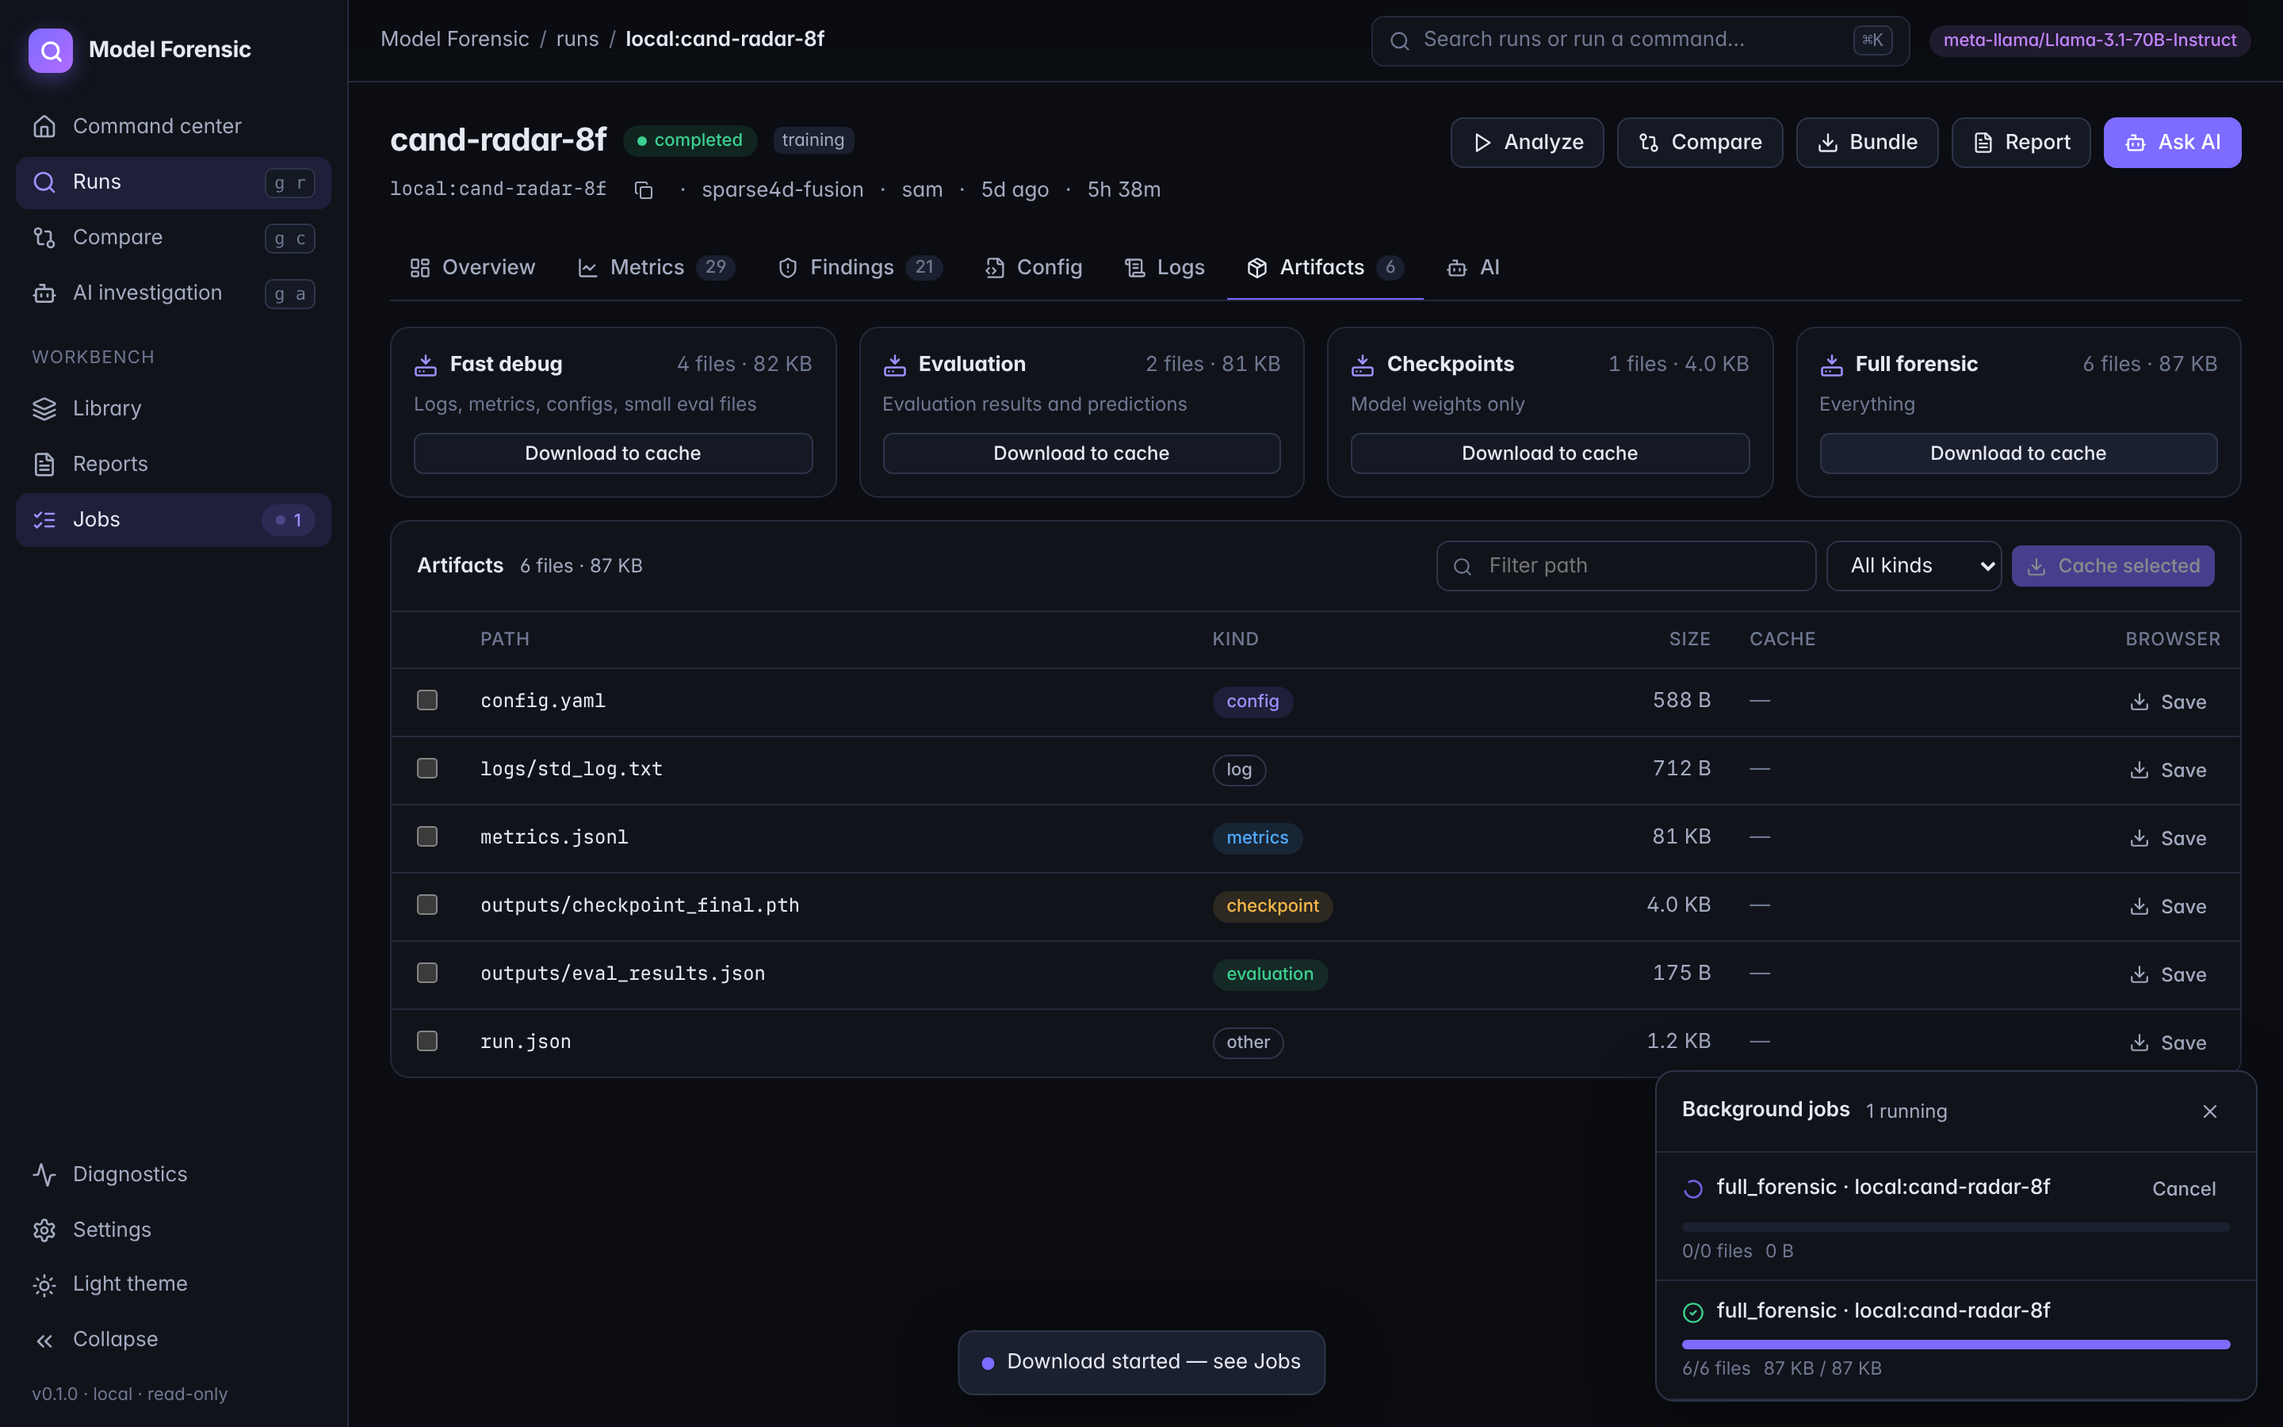
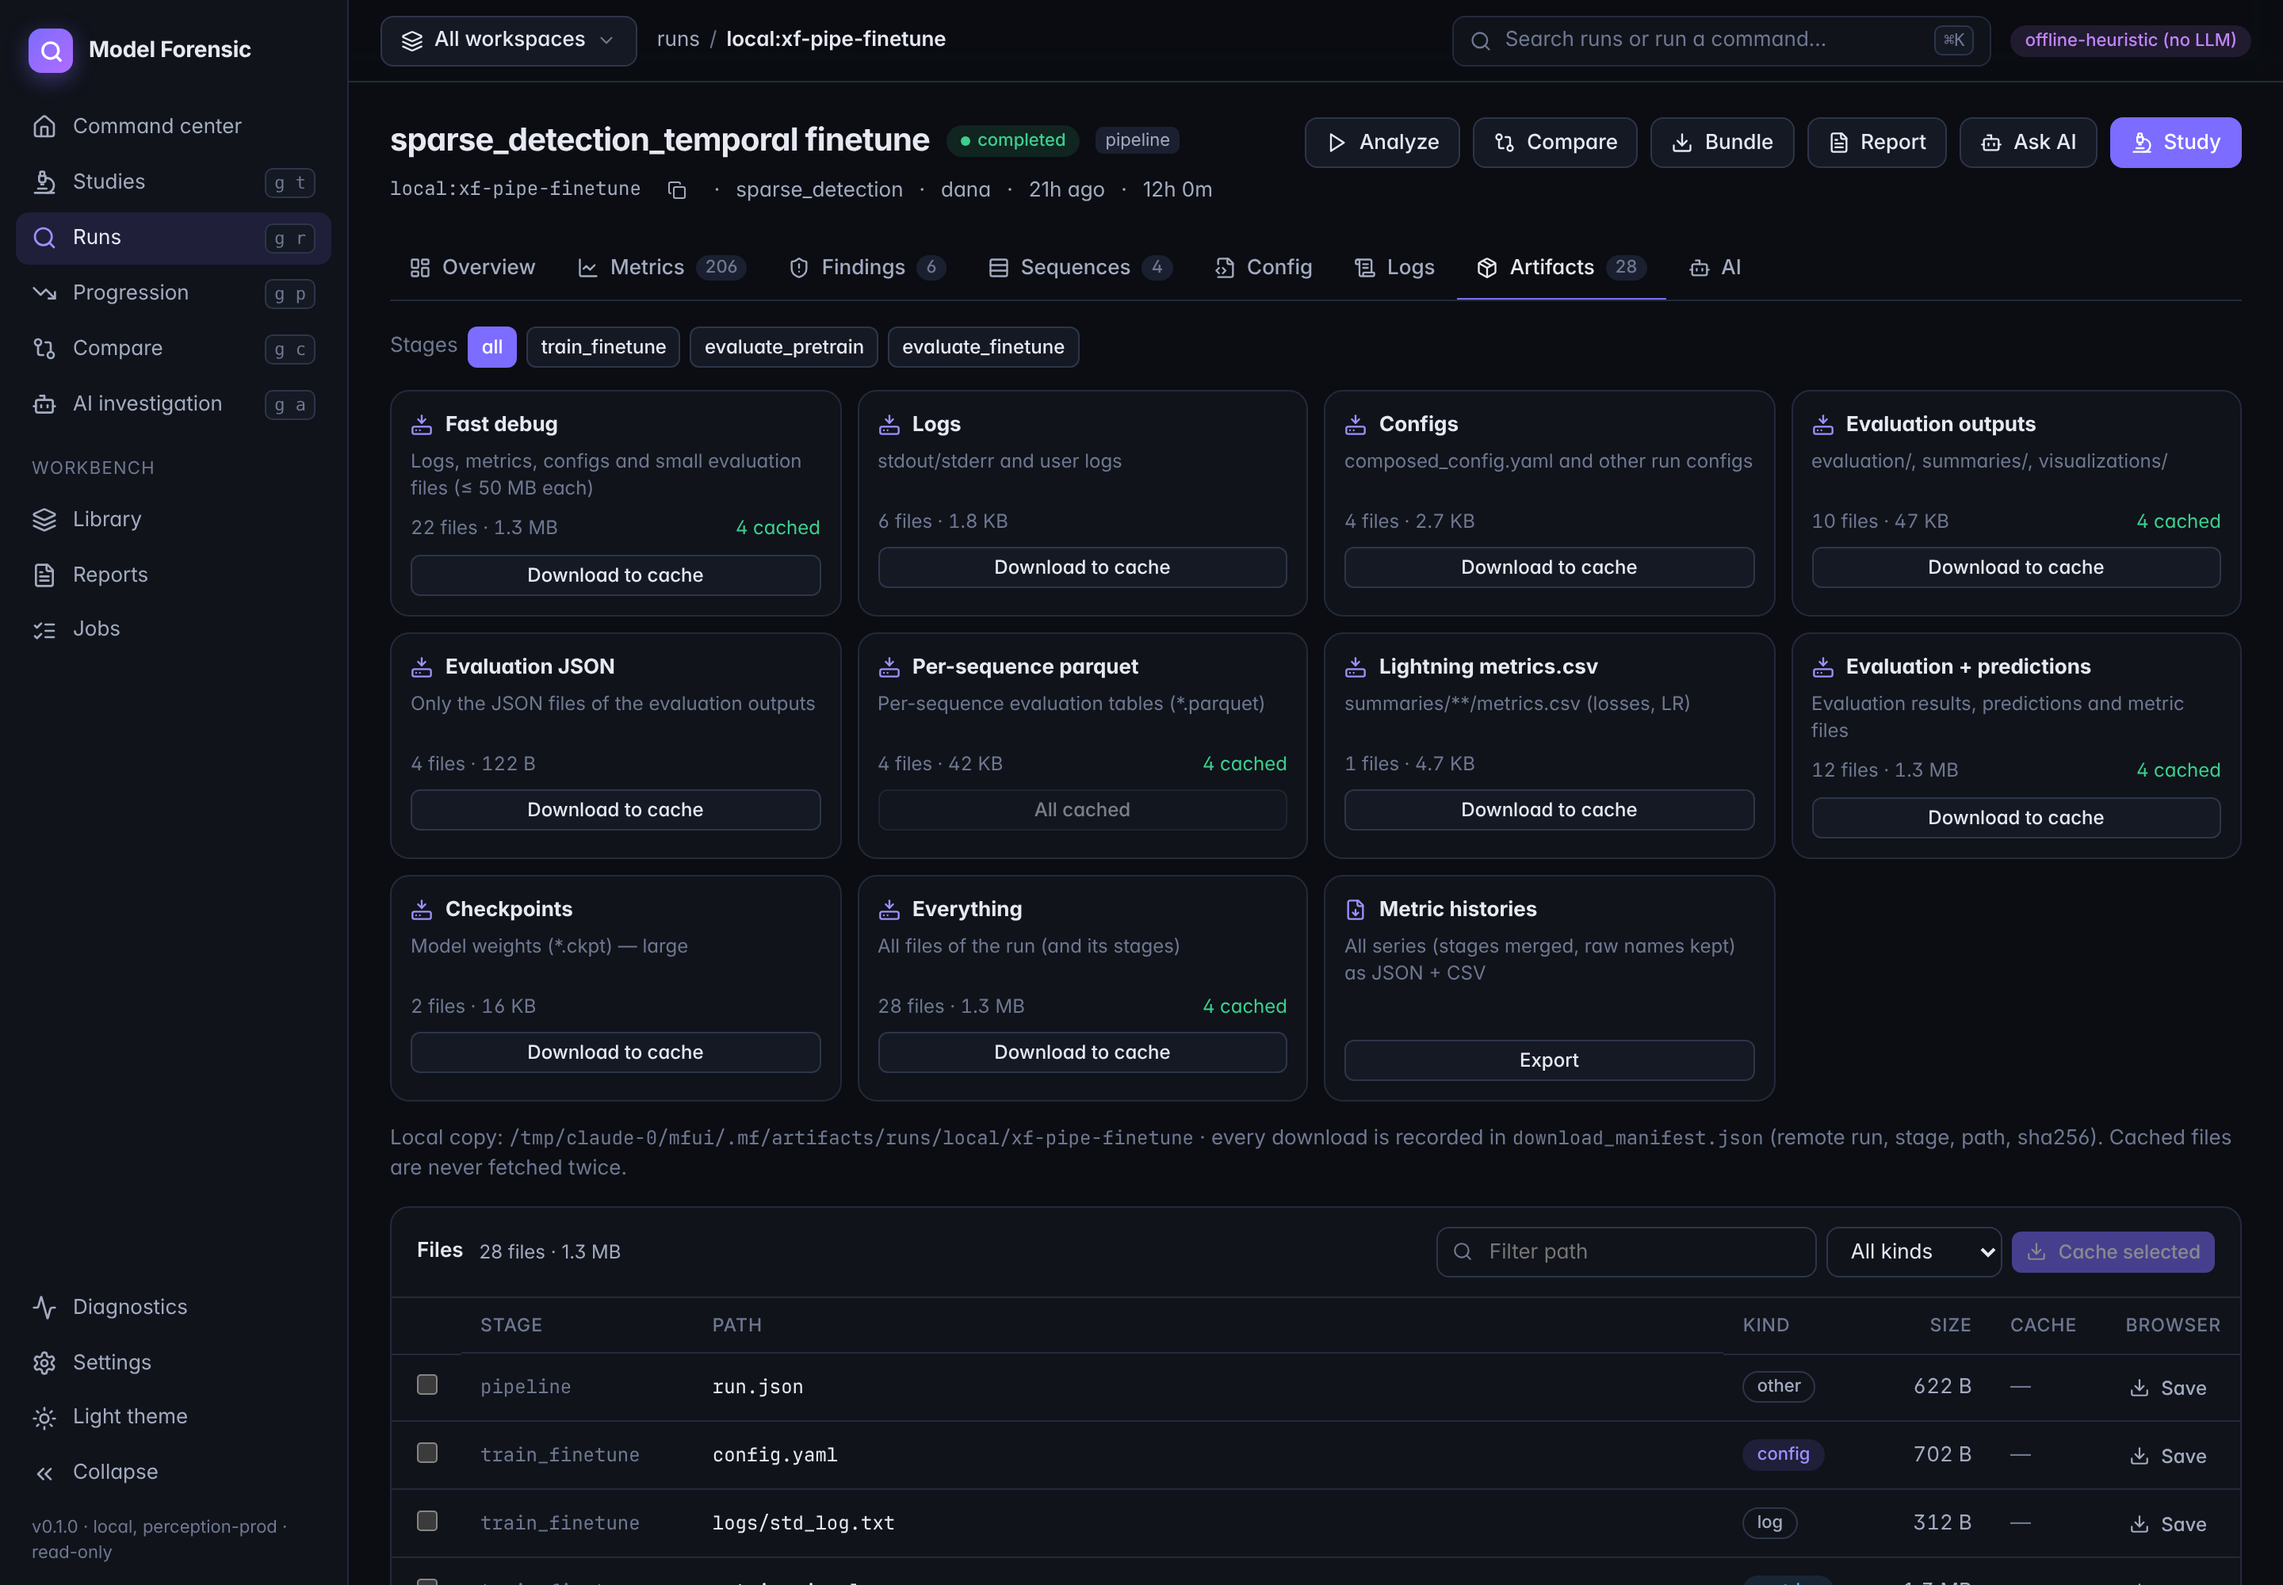
Step 7: docs and screenshots for the Azure setup, pipelines and sequences
- README: "Set up for your Azure ML" (az login → mf init → mf doctor --live),
  features for pipelines, per-sequence evaluation, xflow names and team policy,
  new screenshots; architecture doc covers the new packs and the site interface.
- A workspace is shown as connected only after a sync actually reached it
  ("not checked yet" before).

Claude-Session: https://claude.ai/code/session_01YHv2Y5yvrfEV7DG9Mcvpzx

diff --git a/web/src/components/AzureWorkspaces.tsx b/web/src/components/AzureWorkspaces.tsx
@@ -90,7 +90,10 @@ export function AzureWorkspaces() {
                   <div className="row" style={{ gap: 8, marginBottom: 8 }}>
                     <label className="row" style={{ gap: 6 }}><input type="radio" checked={!!r.default} onChange={() => set(i, { default: true })} /> <span className="faint">default</span></label>
                     <b className="mono">{r.name || "(new)"}</b>
-                    {live && (live.available ? <Pill tone="good">connected</Pill> : <Pill tone="bad" title={live.error ?? ""}>unavailable</Pill>)}
+                    {live && (!live.available
+                      ? <Pill tone="bad" title={live.error ?? ""}>unavailable</Pill>
+                      : live.verified ? <Pill tone="good">connected</Pill>
+                      : <Pill tone="outline" title="Run a sync (or mf doctor --live) to verify access">not checked yet</Pill>)}
                     {live && !live.available && live.error && <span className="faint mono ellipsis" style={{ maxWidth: 520 }} title={live.error}>{live.error}</span>}
                     <span className="spacer" />
                     {studio && <a className="btn sm ghost" href={studio} target="_blank" rel="noreferrer"><ExternalLink size={13} /> Studio</a>}

diff --git a/web/src/api/types.ts b/web/src/api/types.ts
@@ -85,7 +85,7 @@ export interface RunOverview {
 export interface MetricSeriesDto { key: string; steps: number[]; values: (number | null)[]; timestamps: number[] | null; source: string }
 export interface Backend {
   name: string; kind: string; title: string; workspace: string | null; resource_group: string | null;
-  subscription_id: string | null; root: string | null; available: boolean; error: string | null;
+  subscription_id: string | null; root: string | null; available: boolean; verified?: boolean; error: string | null;
 }
 
 export interface Claim {

diff --git a/backend/src/model_forensic/application/service.py b/backend/src/model_forensic/application/service.py
@@ -98,6 +98,7 @@ class ForensicService:
     ) -> None:
         self.sources = {s.name: s for s in sources}
         self.sync_errors: dict[str, str] = {}
+        self.sync_ok: set[str] = set()  # workspaces a sync has actually reached
         self._artifact_cache = _LRU(256)
         self._tables_cache = _LRU(16)
         self.team = TeamPolicy()
@@ -133,6 +134,7 @@ class ForensicService:
             try:
                 total += self._sync_one(name, src, index_configs, since)
                 self.sync_errors.pop(name, None)
+                self.sync_ok.add(name)
             except Exception as exc:
                 # One unreachable workspace (credential, network, permissions) must not stop the others.
                 self.sync_errors[name] = f"{type(exc).__name__}: {str(exc).splitlines()[0][:300] if str(exc) else ''}"

diff --git a/backend/src/model_forensic/api/app.py b/backend/src/model_forensic/api/app.py
@@ -306,6 +306,7 @@ def create_app(container: Container) -> FastAPI:
                     "subscription_id": o.get("subscription_id"),
                     "root": o.get("root") if b.kind == "local" else None,
                     "available": b.name in svc.sources and b.name not in svc.sync_errors,
+                    "verified": b.name in svc.sync_ok,
                     "error": container.backend_errors.get(b.name) or svc.sync_errors.get(b.name),
                 }
             )

diff --git a/README.md b/README.md
@@ -20,6 +20,11 @@ causes, the competing hypotheses, and the cheapest experiment that separates the
 | **Studies** | Study one experiment or a small group in depth: evidence board (metrics vs baseline, config differences, architecture diagnostics), hypotheses with status and evidence, the architecture change each suggests, the run that tests it, one-click verification, notes, timeline, Markdown export |
 | **Instrumentation kit** | `model-forensic-instrument`: a few lines in your PyTorch / MMDetection3D training code log per-module learning health, feature-map statistics (per FPN scale), per-decoder-layer losses (incl. StreamPETR denoising / aux-2D branches), uncertainty-head calibration, temporal-memory benefit by sequence position, loss-term gradient conflicts and evaluation with a branch zeroed — to Azure ML via MLflow. Works with plain PyTorch, MMEngine and mmcv 1.x. See [`instrument/README.md`](instrument/README.md) |
 | **Architecture diagnostics** | Analyses over those metrics: branches that barely learn, modality contributions per range, collapsed or imbalanced feature maps, decoder depth |
+| **Your Azure, out of the box** | `mf init` detects your subscription and ML workspaces from `az login` into a git-ignored `config/azure.local.yaml` (or edit them in Settings). Fast job listing, run-history metrics, pipeline stages and stage outputs — the access path of the field-tested v1 tool. `mf doctor --live` times credential, listing, metrics and files against your workspace |
+| **Pipelines** | Opening a pipeline shows its stages' metrics, configs, logs and files; the same evaluation after two stages becomes `stage=…`, and *stage deltas* show what pretrain → finetune changed per class, distance and range |
+| **Per-sequence evaluation** | Sequence parquets recognised by schema: per-class precision / recall / FP per GT, worst sequences, scenes that fail for every class, per-sequence regressions between stages or runs |
+| **Your metric names** | xflow multi-task names (`train_<task>/d3_loss_cls/unweighted_loss`, `…/uncertainty_weight_log_sigma`, `evaluation/<task>/<Class>`, PR-AUC by recall and distance, working points) map to canonical keys; learned task weights (Kendall log σ) get their own analysis — heads the model abandons or turns off |
+| **Team policy** | `config/team.local.yaml`: de-prioritised classes (never drive a verdict), metric families each stage must log, where each metric is computed (cited by the AI), default analysis parameters |
 | **Workspaces** | Several Azure ML workspaces configured side by side; a dropdown scopes every search, list and picker to the one you work in. An unreachable workspace is shown with the reason and doesn't block the others |
 | **Progression across runs** | Overlay loss and metric curves of up to 30 runs — e.g. everyone's jobs this week. X-axis by step, epoch or hours since start; colour by run, user, experiment or any config value that differs; live refresh for running jobs; per-run ranking table |
 | **Find runs fast** | Local search index (≈1 ms per query), filters, metric ranges, config values, and plain-English queries whose interpretation is shown to you |
@@ -27,7 +32,7 @@ causes, the competing hypotheses, and the cheapest experiment that separates the
 | **Plot** | Fast canvas charts: multi-metric, smoothing, log scale, baseline overlay, linked cursors, zoom, PNG/CSV export, per-slice breakdowns (range, class, …) |
 | **Compare** | Noise-aware deltas: z-scores against baseline seed replicates when available, explicit warning when not; config diff that ignores runtime noise |
 | **Debug** | Deterministic analysis packs → structured findings with evidence, hypotheses (never stated as fact), recommended experiments and provenance; config diff; log search |
-| **Download** | Profiles (fast debug / evaluation / checkpoints / everything) with size estimates, resumable checksum-verified cached downloads with live progress, per-file browser download |
+| **Download** | Presets for the pipeline layout — logs, `composed_config.yaml`, evaluation outputs / JSON / parquet, Lightning `metrics.csv`, checkpoints — per stage, with sizes before you start; resumable, checksum-verified, never fetched twice, every file traced in `download_manifest.json`; metric histories as JSON/CSV |
 | **Ask AI (BYOK)** | Any OpenAI-compatible endpoint (OpenAI, Azure OpenAI, vLLM, Ollama). Every claim is labelled and checked against cited evidence; invented numbers are flagged |
 | **108 prompt templates** | Ready-made questions for your (local) LLM, grouped by topic — camera backbone, radar multi-scale features, fusion, temporal, detection head, uncertainty & streaming heads, learned task weights, class × distance evaluation, training, logs, data, review. Each template pulls in the evidence it needs (log errors, loss-curve digests, the relevant config values) and can cover up to 9 runs at once. See the [catalog](docs/prompt-catalog.md) |
 | **Report** | Markdown and print-to-PDF forensic reports generated from stored findings |
@@ -118,10 +123,24 @@ Regex search with match navigation, error/warning highlighting, jump to first er
 
 ![Log viewer highlighting a NaN failure](docs/screenshots/run-logs.png)
 
+### Pipelines, stage deltas and per-sequence evaluation
+
+A pipeline run merges what its stages logged. Findings come from the stage metrics and the evaluation parquets:
+classes with more false positives than objects, scenes that fail for every class, per-sequence regressions from
+the pretrain to the finetune evaluation.
+
+![Findings of a pipeline: precision-poor class, failing scenes, per-sequence regressions, stage deltas](docs/screenshots/pipeline-findings.png)
+
+![Per-sequence evaluation: per-class precision / recall / FP per GT and the worst sequences](docs/screenshots/pipeline-sequences.png)
+
+### Your Azure workspaces and team policy
+
+![Settings: Azure workspaces detected from az login, team policy](docs/screenshots/settings-azure.png)
+
 ### Download artifacts
 
-Choose a profile so multi-GB checkpoints aren't pulled for a quick look. Downloads run in the
-background with progress and can be cancelled.
+Presets follow the pipeline layout and are sized before anything is fetched; pick stages to narrow them.
+Downloads run in the background with progress and can be cancelled.
 
 ![Artifact profiles, file list and background download progress](docs/screenshots/run-artifacts.png)
 
@@ -199,23 +218,29 @@ mf report cand-radar-8f --baseline baseline-cl4f-s0 -o report.md
 For UI development: `mf serve` in one terminal, `cd web && npm run dev` in another
 (http://localhost:5173). See [`web/README.md`](web/README.md).
 
-## Connect Azure ML and an LLM
+## Set up for your Azure ML
+
+Everything site-specific lives in git-ignored files under [`config/`](config/README.md); the repository only has templates.
 
 ```bash
-uv pip install -e "backend[azure]"
-az login                                      # or managed identity / workload identity
-cp model-forensic.example.yaml model-forensic.yaml   # one `backends:` entry per Azure ML workspace
-export MF_LLM_API_KEY=...                     # only the env var NAME is stored in config
-mf doctor && mf sync
+uv pip install -e "backend[azure]"      # azure-ai-ml, azure-identity, azure-storage-blob, pyarrow
+az login                                # no keys or secrets are stored anywhere
+mf init                                 # detects subscription + ML workspaces → config/azure.local.yaml
+cp config/team.example.yaml config/team.local.yaml   # optional: de-prioritised classes, expected metrics, code refs
+mf doctor --live                        # credential, listing speed, one job's stages / metrics / files, name mapping
+mf sync && mf serve                     # http://127.0.0.1:8765
 ```
 
-Or set the LLM endpoint and key from **Settings** in the UI.
+Or open **Settings → Azure ML workspaces → Detect from az login**. For a single workspace in CI or a container,
+set `MF_AZURE_SUBSCRIPTION_ID`, `MF_AZURE_RESOURCE_GROUP`, `MF_AZURE_WORKSPACE`. The LLM endpoint and key are set
+in **Settings** (key held in memory only) or via `MF_LLM_API_KEY` in `model-forensic.yaml`.
 
 Metric names are mapped to canonical keys on the way in, so existing runs work without re-logging:
 generic `train_*`/`val_*`, MLflow-safe `name__k_v`, and the xflow multi-task layout
 (`train_<task>/d<k>_loss_<term>/{weighted_loss,unweighted_loss,uncertainty_weight_log_sigma}`,
 `evaluation/<task>/<Class>`, `…pr_curves_detailed.auc…`, `…working_point…`) — see
-[`connectors/naming.py`](backend/src/model_forensic/infrastructure/connectors/naming.py).
+[`connectors/naming.py`](backend/src/model_forensic/infrastructure/connectors/naming.py). `mf doctor --live`
+lists any names that don't map yet.
 
 ## Documentation
 

diff --git a/docs/architecture.md b/docs/architecture.md
@@ -312,6 +312,14 @@ full download (safetensors header read via range request).
   needed — xflow's `*/uncertainty_weight_log_sigma`: learned uncertainty weighting, Kendall et al.; heads
   down-weighted or abandoned — log σ up while the head's unweighted loss is flat —, heads effectively off,
   weights not converged, weighted total falling only because the weights moved).
+* **Pipeline & evaluation packs** (`analysis/plugins/pipeline.py`): `stage_delta` (metrics logged by several
+  stages — first vs last evaluation per class, distance, range), `sequence_drilldown` (per-sequence parquets,
+  `analysis/sequences.py`: precision-poor classes, concentrated misses, scene-level failures, per-sequence
+  regressions), `metric_coverage` (expected families per stage kind from the team policy).
+* **Site interface** (`interface/`): `azure.py` (workspaces from `config/azure.local.yaml` / `MF_AZURE_*`,
+  `az` detection, `mf init`, Settings API) and `team.py` (de-prioritised classes, expected metrics, code refs,
+  analysis defaults). Pipelines are resolved in `application/stages.py` (stage metrics merged with a `stage`
+  dimension for repeated names).
 * **Planned packs (Phase 4)**: reliability diagrams from per-sample eval files, temporal by occlusion, data
   distribution, evaluation breakdown by velocity/size/occlusion.
 
